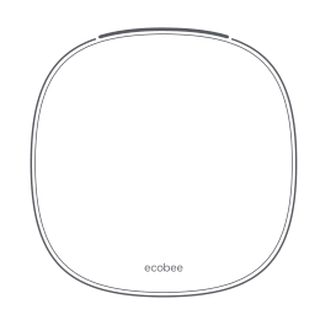
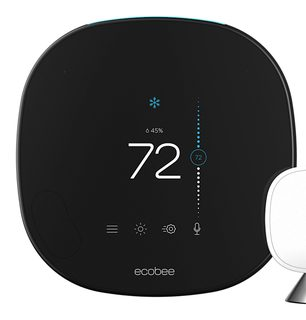
v115: thermostat thumbnails - 19 line-art images replaced with official photos

diff --git a/app.js b/app.js
@@ -4269,7 +4269,7 @@ function sqftCardLocate(a, cfg) {
   </div>`;
 }
 
-const APP_VERSION = "v114";
+const APP_VERSION = "v115";
 
 // ============================================================
 // Usage tracking — silent, posts to the office's Google Form

diff --git a/sw.js b/sw.js
@@ -1,4 +1,4 @@
-const CACHE_NAME = "bfc-cache-v114";
+const CACHE_NAME = "bfc-cache-v115";
 const APP_SHELL = [
   "./",
   "./index.html",
